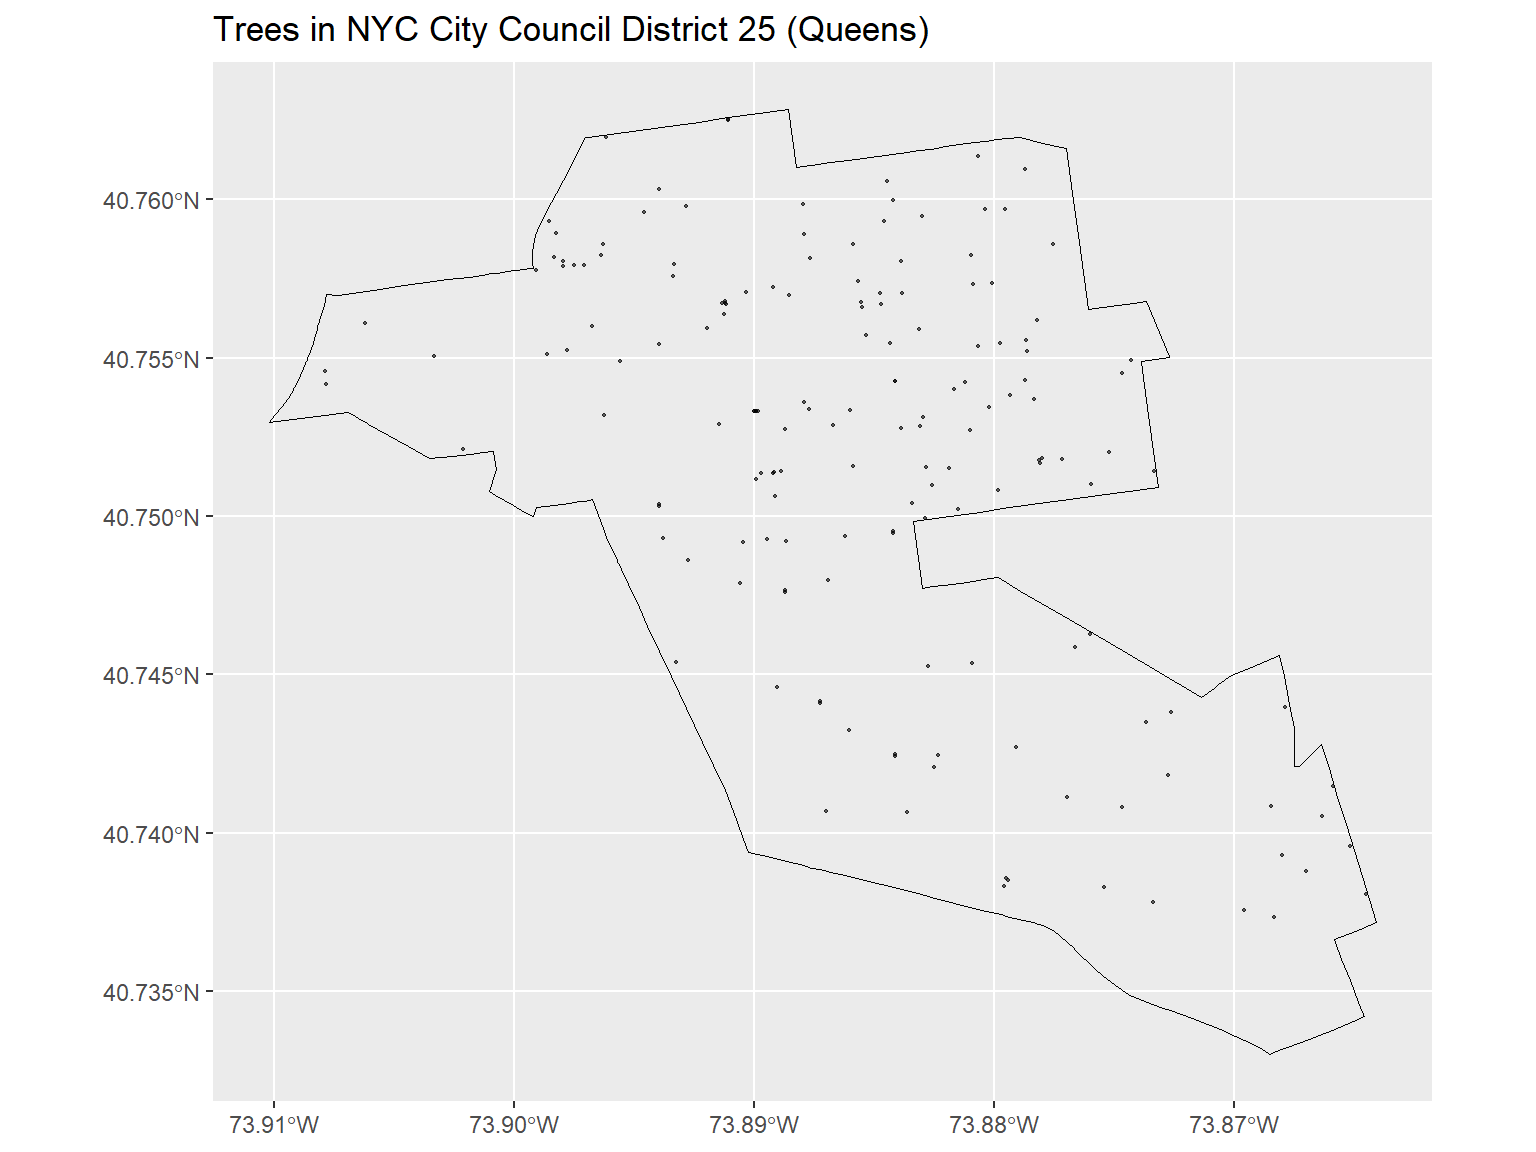
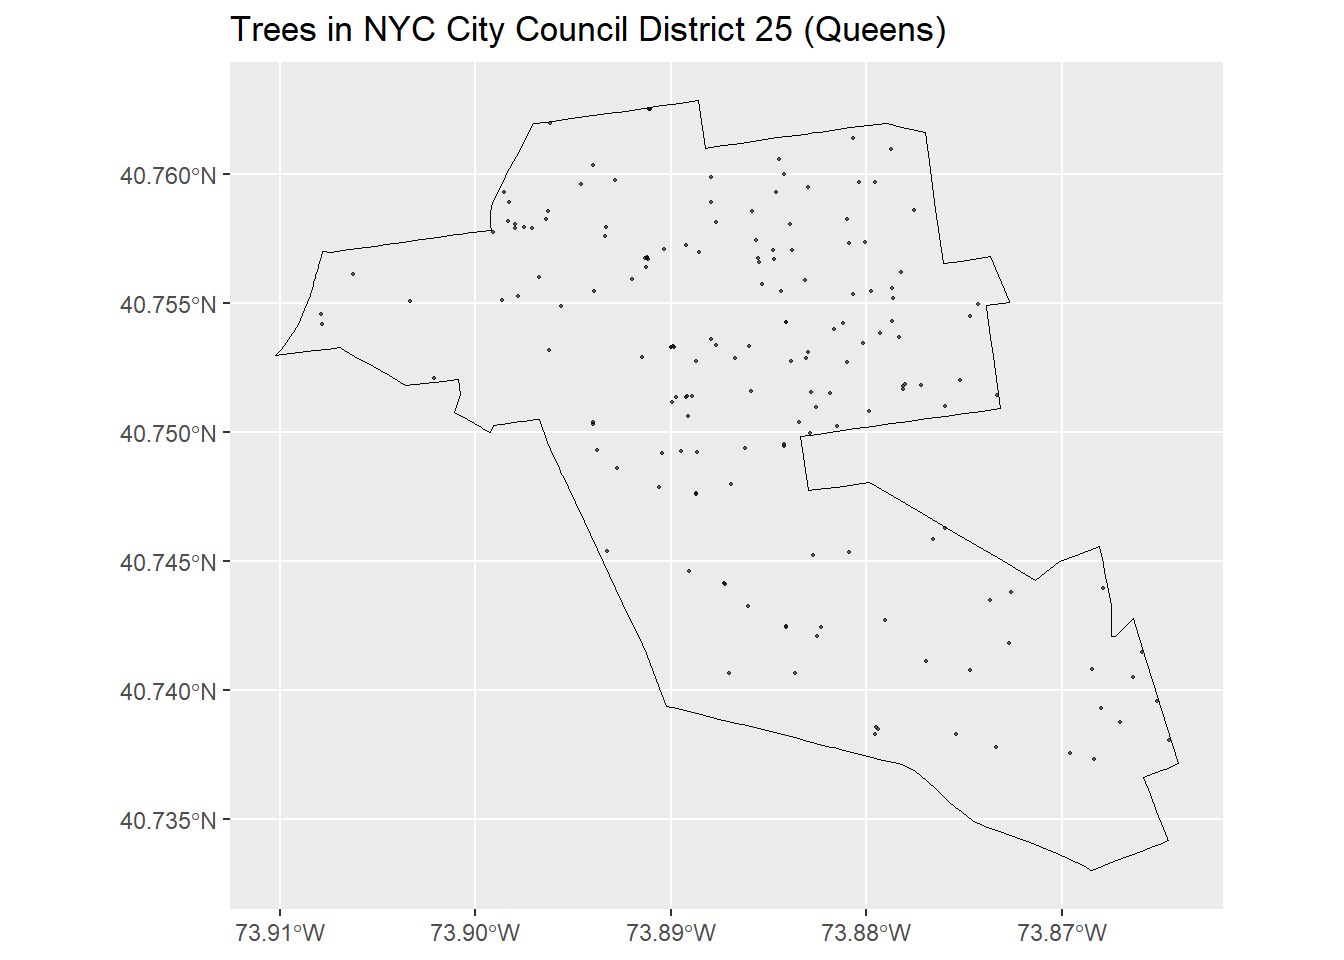
mp03

diff --git a/docs/mp03.html b/docs/mp03.html
@@ -6,7 +6,7 @@
 
 <meta name="viewport" content="width=device-width, initial-scale=1.0, user-scalable=yes">
 
-<meta name="author" content="Your Name">
+<meta name="author" content="XU TANG">
 
 <title>Mini-Project #03: NYC Street Trees and Council Districts – STA9750 2025 FALL</title>
 <style>
@@ -189,7 +189,7 @@ pre > code.sourceCode > span > a:first-child::before { text-decoration: underlin
     <div>
     <div class="quarto-title-meta-heading">Author</div>
     <div class="quarto-title-meta-contents">
-             <p>Your Name </p>
+             <p>XU TANG </p>
           </div>
   </div>
     
@@ -559,7 +559,7 @@ First 10 features:
 <div class="cell-output-display">
 <div>
 <figure class="figure">
-<p><img src="mp03_files/figure-html/task2-focus-25-1.png" class="img-fluid figure-img" width="768"></p>
+<p><img src="mp03_files/figure-html/task2-focus-25-1.png" class="img-fluid figure-img" width="672"></p>
 </figure>
 </div>
 </div>
@@ -592,7 +592,7 @@ First 10 features:
 <div class="cell-output-display">
 <div>
 <figure class="figure">
-<p><img src="mp03_files/figure-html/task3-all-trees-1.png" class="img-fluid figure-img" width="768"></p>
+<p><img src="mp03_files/figure-html/task3-all-trees-1.png" class="img-fluid figure-img" width="672"></p>
 </figure>
 </div>
 </div>
